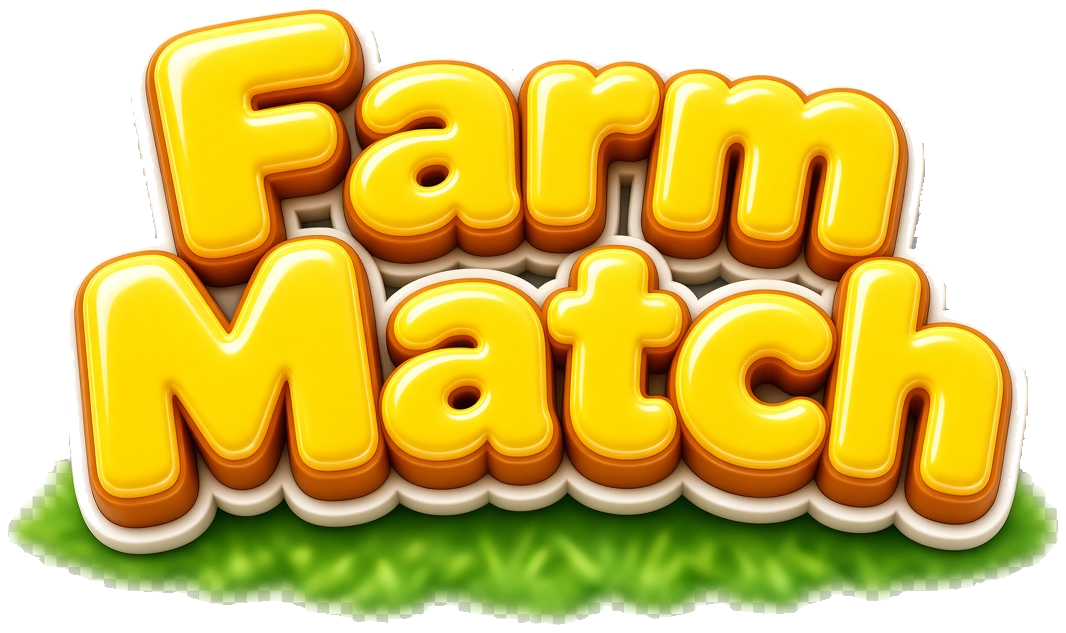
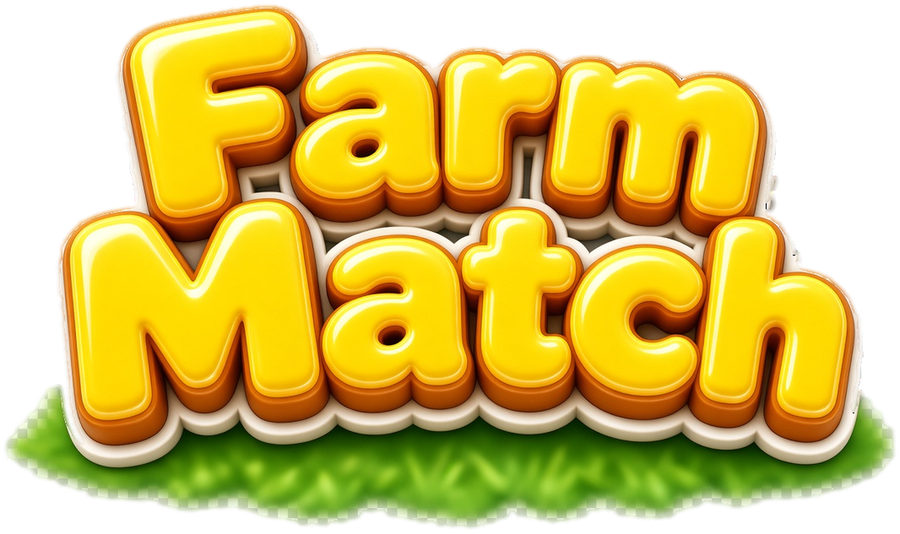
Polish UI borders/home layout and anti-aliased home art; flush tray fill.

diff --git a/index.html b/index.html
@@ -7,6 +7,7 @@
 <style>
   :root { color-scheme: light; }
   * { box-sizing: border-box; }
+  img { image-rendering: auto; -webkit-user-drag: none; }
   html, body { margin: 0; height: 100%; }
   body {
     font-family: "Trebuchet MS", "Segoe UI", sans-serif;
@@ -32,21 +33,21 @@
     background: #5c3a1e;
     border-radius: 14px;
     padding: 6px 16px 7px;
-    border: 3px solid #3d2914;
-    box-shadow: 0 4px 0 #2a180c, inset 0 2px 0 rgba(255,220,160,.28);
+    border: 1.5px solid #6b4a2a;
+    box-shadow: 0 3px 0 #2a180c, inset 0 2px 0 rgba(255,220,160,.35);
     text-shadow: 0 2px 0 #1a0c04, 0 -1px 0 rgba(255,255,255,.15), 0 0 4px rgba(0,0,0,.4);
     max-width: max-content;
   }
   .hdr-left { display: flex; gap: 6px; justify-self: start; }
   #retry, #hdr-home {
     background: linear-gradient(#ffe9b8, #f0c878 55%, #e0a84a);
-    border: 3px solid #6b4423;
+    border: 1.5px solid #8a6340;
     border-radius: 14px;
     padding: 7px 12px 6px;
     font-weight: 800;
     color: #3d2914;
     text-shadow: 0 1px 0 rgba(255,255,255,.7);
-    box-shadow: 0 5px 0 #8a5a28, 0 8px 12px rgba(60,30,0,.22), inset 0 3px 0 rgba(255,255,255,.75);
+    box-shadow: 0 4px 0 #8a5a28, 0 6px 10px rgba(60,30,0,.18), inset 0 2px 0 rgba(255,255,255,.8);
   }
   #retry:active, #hdr-home:active {
     transform: translateY(3px);
@@ -56,7 +57,7 @@
   #board { position: relative; }
   .tile {
     position: absolute;
-    border: 1px solid #cbb992;
+    border: 1.5px solid #dfc686;
     border-radius: 10px;
     background: linear-gradient(#fffaf0, #ffe9c4);
     padding: 7px;
@@ -71,19 +72,19 @@
   .tile.covered { pointer-events: none; }
   .tile.free {
     cursor: pointer;
-    border: 2px solid #e8c76a;
+    border: 1.5px solid #e8c76a;
     box-shadow:
-      0 0 0 2px rgba(255, 220, 120, .55),
-      0 7px 0 #b89252,
-      0 12px 16px rgba(70, 40, 10, .28),
+      0 0 0 1.5px rgba(255, 220, 120, .35),
+      0 6px 0 #b89252,
+      0 10px 14px rgba(70, 40, 10, .24),
       inset 0 2px 0 rgba(255,255,255,.9);
   }
   .tile.free:active {
     transform: translateY(4px) scale(0.92) rotate(var(--rot, 0deg));
     box-shadow:
-      0 0 0 2px rgba(255, 220, 120, .4),
+      0 0 0 1.5px rgba(255, 220, 120, .28),
       0 2px 0 #b89252,
-      0 4px 8px rgba(70, 40, 10, .2),
+      0 4px 8px rgba(70, 40, 10, .18),
       inset 0 2px 0 rgba(255,255,255,.7);
   }
   .tile.dim::after {
@@ -99,33 +100,34 @@
   #hold:empty { display: none; }
   .hold {
     width: 46px; height: 46px; padding: 0;
-    border: 1px solid #cbb992; border-radius: 10px; background: #fff6e4;
+    border: 1.5px solid #dfc686; border-radius: 10px; background: #fff6e4;
     display: flex; align-items: center; justify-content: center; overflow: hidden;
   }
   .hold img { width: 86%; height: 86%; object-fit: contain; }
   .hold.wool { background: #d7efc4; }
   #tray {
     height: 74px;
-    background: linear-gradient(#d4924a, #b87434);
-    border: 4px solid #7a4a22;
-    border-radius: 10px 10px 18px 18px;
-    box-shadow: inset 0 2px 0 rgba(239,192,122,.55), 0 4px 0 #6a3e18;
+    background: #6e3f1c;
+    border: 2px solid #8a5a32;
+    border-radius: 14px 14px 20px 20px;
+    box-shadow: 0 3px 0 #6a3e18;
     display: grid;
     grid-template-columns: repeat(7, 1fr);
-    gap: 4px;
-    padding: 3px 8px 4px;
+    gap: 3px;
+    padding: 0 6px;
     align-items: stretch;
+    overflow: hidden;
     transition: background 0.2s, border-color 0.2s, box-shadow 0.2s;
   }
   #tray.warn {
-    background: linear-gradient(#f09840, #e06818);
-    border-color: #c45a10;
-    box-shadow: inset 0 2px 0 rgba(255,208,138,.55), 0 4px 0 #a04810;
+    background: #8a4210;
+    border-color: #d07030;
+    box-shadow: 0 3px 0 #a04810;
     animation: trayWarnPulse 0.9s ease 2;
   }
   @keyframes trayWarnPulse {
     0%, 100% { filter: brightness(1); }
-    40% { filter: brightness(1.35); box-shadow: inset 0 2px 0 rgba(255,224,160,.7), 0 4px 0 #a04810, 0 0 14px rgba(255,140,40,.65); }
+    40% { filter: brightness(1.25); box-shadow: 0 3px 0 #a04810, 0 0 14px rgba(255,140,40,.65); }
   }
   .slot.pop { overflow: visible; z-index: 5; }
   .slot.pop img { animation: matchPop 0.35s ease forwards; }
@@ -143,7 +145,7 @@
   .fly-card {
     position: fixed;
     z-index: 40;
-    border: 1px solid #cbb992;
+    border: 1.5px solid #dfc686;
     border-radius: 10px;
     background: linear-gradient(#fffaf0, #ffe9c4);
     padding: 7px;
@@ -186,13 +188,15 @@
     70% { filter: brightness(1.15); transform: scale(1.04); }
   }
   .slot {
-    border-radius: 8px;
-    background: rgba(72, 38, 12, 0.42);
+    border-radius: 0;
+    background: #5a3214;
     min-height: 0;
     height: 100%;
     display: flex; align-items: center; justify-content: center;
     overflow: hidden;
   }
+  .slot:first-child { border-radius: 10px 0 0 14px; }
+  .slot:last-child { border-radius: 0 10px 14px 0; }
   .slot { overflow: hidden; } .slot img { width: 86%; height: 86%; object-fit: contain; }
   .slot.wool { background: #d7efc4; }
   #powers { display: flex; justify-content: center; gap: 10px; margin-top: 10px; min-height: 58px; }
@@ -201,13 +205,13 @@
     min-width: 96px;
     background: linear-gradient(#7ec4ff, #2f86ef 55%, #1f6fd4);
     color: white;
-    border: 3px solid #1a4f9a;
+    border: 1.5px solid #3a6fb8;
     border-radius: 16px;
     padding: 10px 14px 8px;
     font-weight: 800;
     font-size: 16px;
     text-shadow: 0 1px 0 #134a8c;
-    box-shadow: 0 6px 0 #143f7a, 0 10px 14px rgba(10,40,90,.28), inset 0 3px 0 rgba(255,255,255,.55);
+    box-shadow: 0 5px 0 #143f7a, 0 8px 12px rgba(10,40,90,.24), inset 0 2px 0 rgba(255,255,255,.6);
   }
   #powers button span {
     display: block;
@@ -218,15 +222,15 @@
   #powers button:disabled {
     background: linear-gradient(#d2c0a0, #b89a72 55%, #9a7a52);
     color: #6b5340;
-    border-color: #6b5340;
-    box-shadow: 0 4px 0 #5a4030, inset 0 2px 0 rgba(255,255,255,.25);
+    border-color: #8a7358;
+    box-shadow: 0 3px 0 #5a4030, inset 0 2px 0 rgba(255,255,255,.25);
     text-shadow: none;
   }
   #powers button.locked {
     background: linear-gradient(#cbb892, #a89068 55%, #8a7048);
     color: #5a4430;
-    border-color: #5a4430;
-    box-shadow: 0 4px 0 #4a3420, inset 0 2px 0 rgba(255,255,255,.2);
+    border-color: #7a6348;
+    box-shadow: 0 3px 0 #4a3420, inset 0 2px 0 rgba(255,255,255,.2);
     text-shadow: none;
   }
   #powers button.locked .lock {
@@ -265,7 +269,7 @@
     position: relative;
     z-index: 1;
     background: linear-gradient(#fff4dc, #f5e2b8);
-    border: 6px solid #5c3a1e;
+    border: 2px solid #7a5430;
     border-radius: 20px;
     padding: 22px 28px;
     text-align: center;
@@ -278,7 +282,7 @@
     margin-top: 12px;
     background: #3d8ef0;
     color: white;
-    border: 3px solid #1d4f93;
+    border: 2px solid #3a6fb8;
     border-radius: 14px;
     padding: 8px 16px;
     font-weight: 800;
@@ -287,15 +291,15 @@
   #panel .choices #again {
     background: linear-gradient(#8ef06a, #3ec848 55%, #22a832);
     color: #fff;
-    border: 3px solid #147a28;
-    box-shadow: 0 5px 0 #0e5a1c, 0 8px 12px rgba(0,40,0,.25), inset 0 2px 0 rgba(255,255,255,.65);
+    border: 2px solid #2a9a40;
+    box-shadow: 0 4px 0 #0e5a1c, 0 6px 10px rgba(0,40,0,.22), inset 0 2px 0 rgba(255,255,255,.65);
     text-shadow: 0 1px 0 #0e5a1c;
   }
   #panel .choices #to-home {
     background: linear-gradient(#fff6df, #f0d9a0 55%, #e8c878);
     color: #3d2914;
-    border: 3px solid #6b4423;
-    box-shadow: 0 5px 0 #8a5a28, 0 8px 12px rgba(60,30,0,.22), inset 0 2px 0 rgba(255,255,255,.8);
+    border: 2px solid #8a6340;
+    box-shadow: 0 4px 0 #8a5a28, 0 6px 10px rgba(60,30,0,.18), inset 0 2px 0 rgba(255,255,255,.8);
   }
   #next {
     position: fixed;
@@ -304,7 +308,7 @@
     z-index: 5;
     background: #3d8ef0;
     color: white;
-    border: 3px solid #1d4f93;
+    border: 1.5px solid #3a6fb8;
     border-radius: 16px;
     padding: 12px 16px;
     font-weight: 800;
@@ -357,18 +361,20 @@
     margin-top: 8px;
     filter: drop-shadow(0 10px 18px rgba(0,40,0,.28));
     z-index: 2;
+    image-rendering: auto;
   }
   #home-farmer {
     position: absolute;
-    left: -18px;
-    bottom: 118px;
-    width: min(52vw, 220px);
+    left: 0;
+    bottom: 150px;
+    width: min(48vw, 200px);
     height: auto;
     transform-origin: 50% 100%;
     animation: farmerSway 2.8s ease-in-out infinite;
     filter: drop-shadow(0 8px 10px rgba(0,0,0,.22));
     z-index: 1;
     pointer-events: none;
+    image-rendering: auto;
   }
   @keyframes farmerSway {
     0%, 100% { transform: rotate(-2.4deg) translateX(0); }
@@ -377,27 +383,28 @@
   #home-play {
     position: relative;
     z-index: 3;
-    width: 132px;
-    height: 132px;
+    width: 96px;
+    height: 96px;
     border: 0;
-    border-radius: 28px;
+    border-radius: 22px;
     margin-bottom: 10px;
-    font-size: 64px;
+    font-size: 46px;
     font-weight: 900;
     color: #fff;
-    text-shadow: 0 3px 0 #146b28;
+    text-shadow: 0 2px 0 #146b28;
     background: radial-gradient(circle at 30% 24%, #f3ffb0 0%, #7cf25a 28%, #2fd048 62%, #12a032 100%);
-    box-shadow: 0 10px 0 #0a6a20, 0 16px 22px rgba(0,40,0,.32), inset 0 5px 0 rgba(255,255,255,.88), inset 0 -4px 0 rgba(0,80,20,.18);
+    box-shadow: 0 6px 0 #0a6a20, 0 10px 14px rgba(0,40,0,.26), inset 0 4px 0 rgba(255,255,255,.88), inset 0 -3px 0 rgba(0,80,20,.18);
   }
-  #home-play:active { transform: translateY(4px); box-shadow: 0 6px 0 #0a6a20, 0 10px 14px rgba(0,40,0,.28), inset 0 4px 0 rgba(255,255,255,.8); }
+  #home-play:active { transform: translateY(3px); box-shadow: 0 3px 0 #0a6a20, 0 6px 10px rgba(0,40,0,.22), inset 0 3px 0 rgba(255,255,255,.8); }
 
   #home-cleared {
     display: none;
     margin: 4px 0 0;
     z-index: 2;
-    width: min(70vw, 260px);
+    width: min(56vw, 200px);
     height: auto;
     filter: drop-shadow(0 4px 6px rgba(0,40,0,.3));
+    image-rendering: auto;
   }
   body.cleared #home-cleared { display: block; }
   #mute {
@@ -405,16 +412,17 @@
     top: 12px;
     right: 12px;
     z-index: 4;
-    width: 52px;
-    height: 52px;
+    width: 44px;
+    height: 44px;
     padding: 0;
     border: 0;
-    border-radius: 16px;
+    border-radius: 14px;
     background: transparent;
     box-shadow: none;
     overflow: hidden;
   }
   #mute img { width: 100%; height: 100%; object-fit: contain; display: block; pointer-events: none; }
+  #home img, #board img, .slot img, .hold img, .fly-card img { image-rendering: auto; }
   #tip {
     position: fixed;
     z-index: 45;
